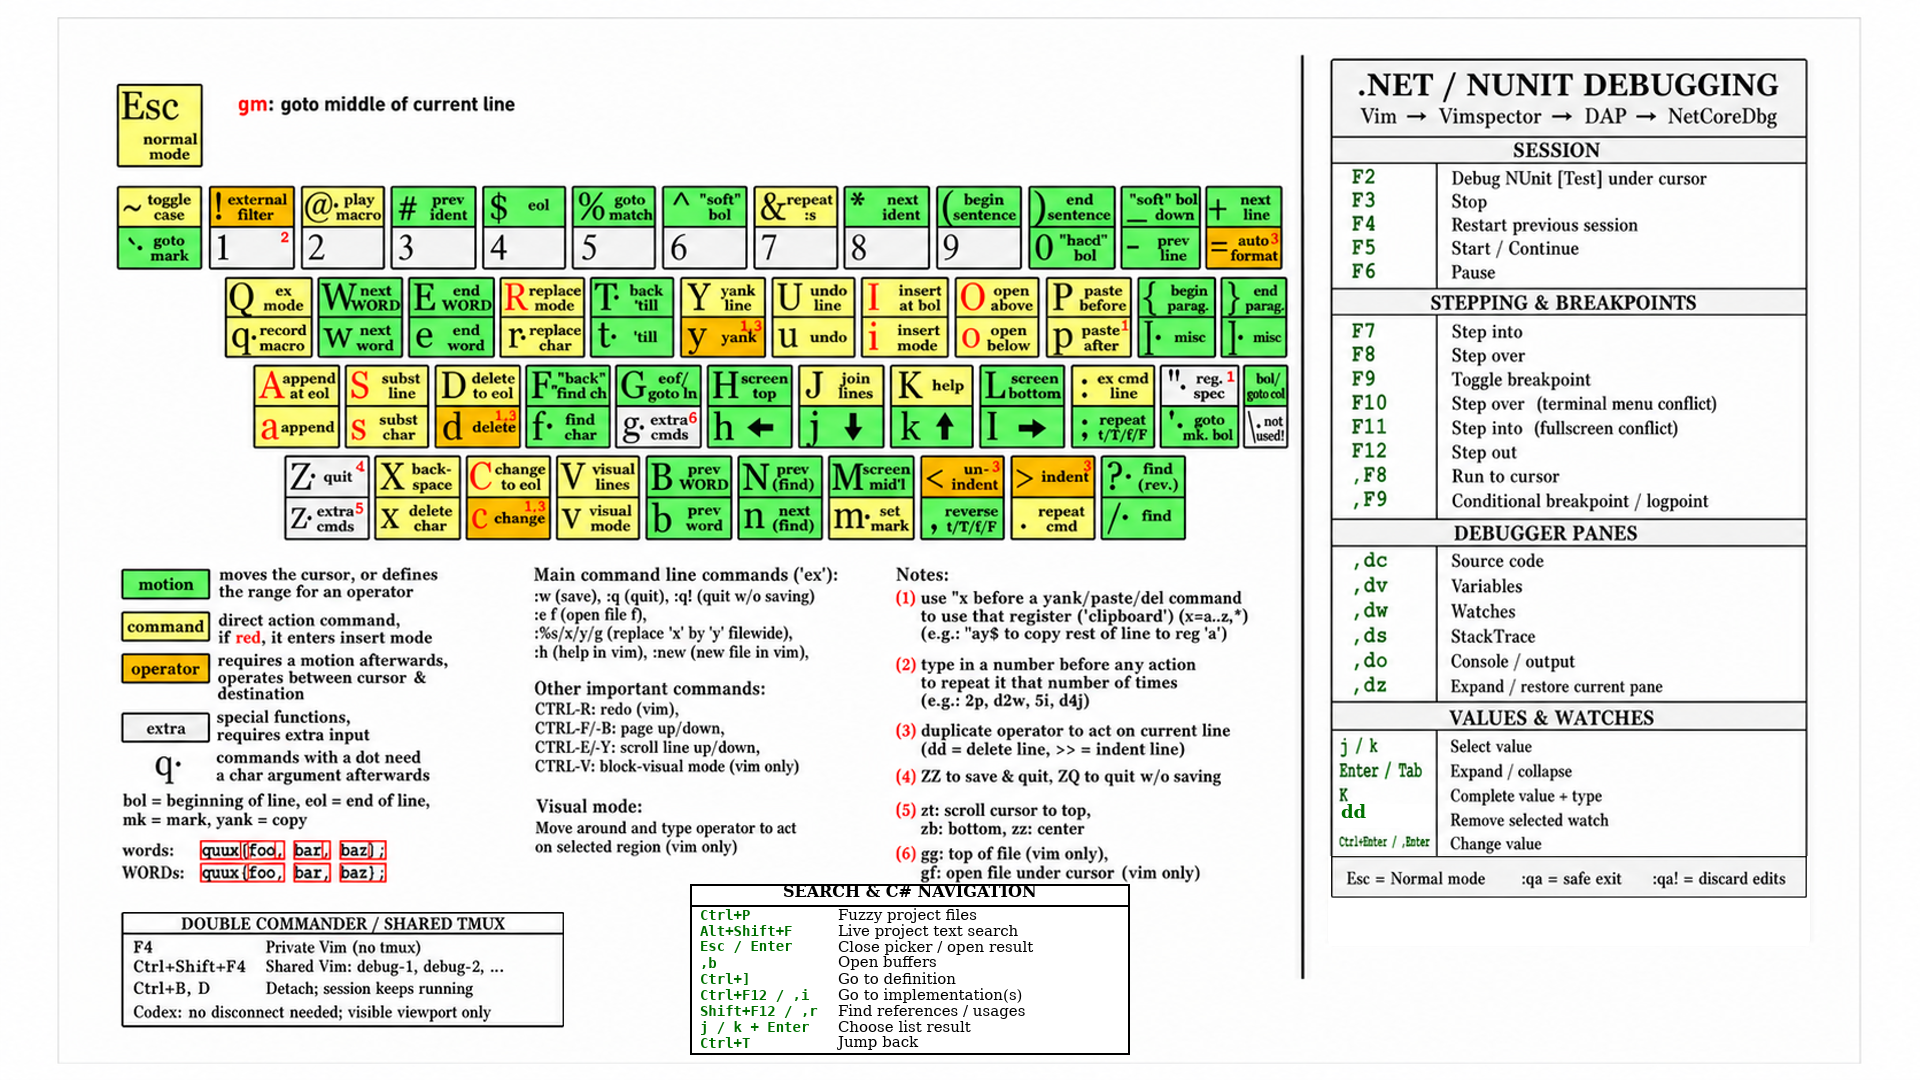
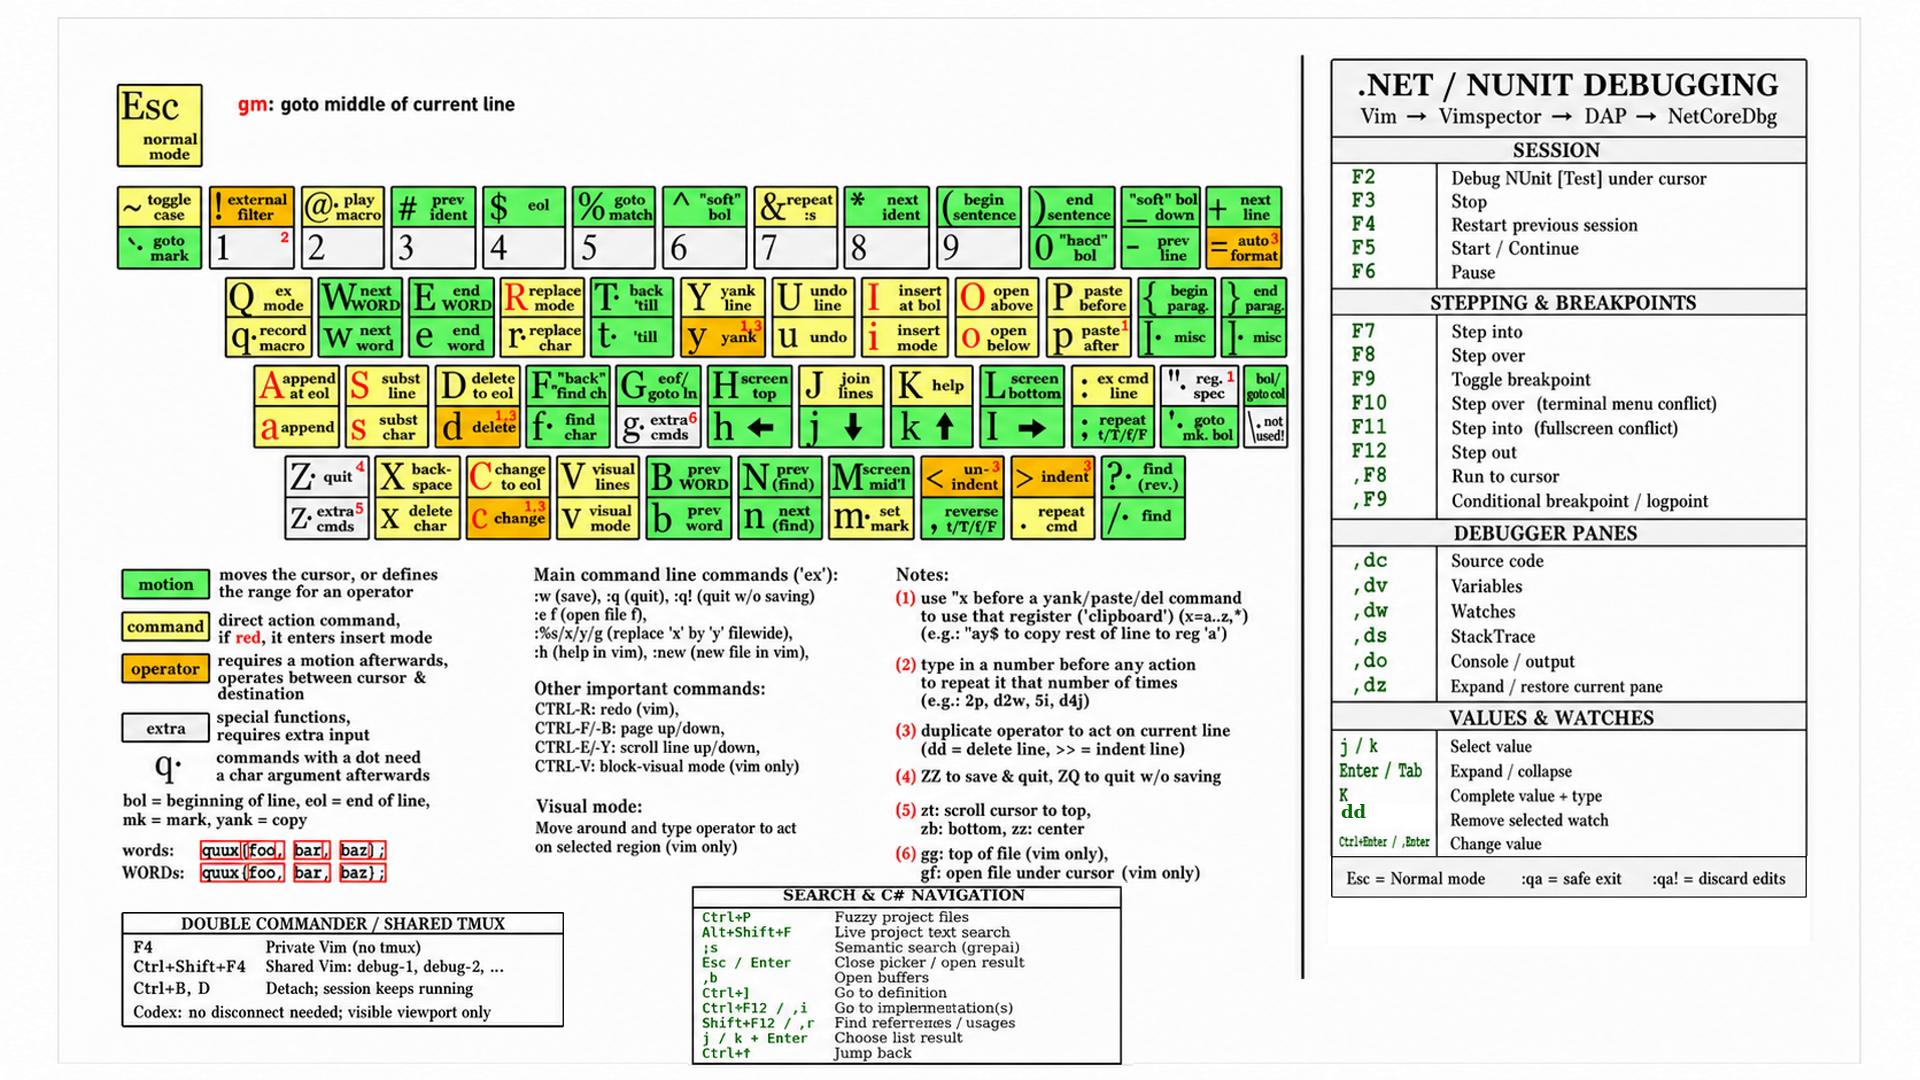
Add grepai semantic project search

diff --git a/README.md b/README.md
@@ -31,6 +31,24 @@ sudo apt install vim-gtk3 clang clang-tidy cppcheck pylint shellcheck
 
 Running `install-vim.sh` again leaves existing package checkouts in place.
 
+## Semantic project search
+
+Install the local search stack, then initialize each project that should be
+searchable:
+
+```sh
+./install-grepai.sh
+cd /path/to/a/project
+grepai-project-init
+```
+
+This installs grepai, Ollama with the multilingual
+`nomic-embed-text-v2-moe` embedding model, and a localhost-only Qdrant vector
+store. `grepai-project-init` creates a project index and starts its incremental
+watcher. In Vim, press `,s` and describe the code you want to find; results
+open in the quickfix list. Codex is connected through MCP automatically.
+Claude Code is connected too when its CLI is installed.
+
 ## Double Commander
 
 Start Double Commander once if this is a new installation. Then close it and
@@ -75,6 +93,8 @@ NetCoreDbg/Vimspector workflow and shortcut reference.
 - `init.vim` — complete Vim configuration
 - `conf.bash/.bashrc` — complete interactive Bash configuration
 - `install-vim.sh` — safe Bash/Vim linker and Vim package installer
+- `install-grepai.sh` — local semantic-search stack and agent integration
+- `grepai-project-init` — initialize and watch one project index
 - `install-doublecmd.sh` — optional focused Double Commander configurator
 - `install-totalcmd-shortcuts.sh` — focused Total Commander shortcut merger
 - `conf.doublecmd/settings.json` — portable Double Commander preferences
